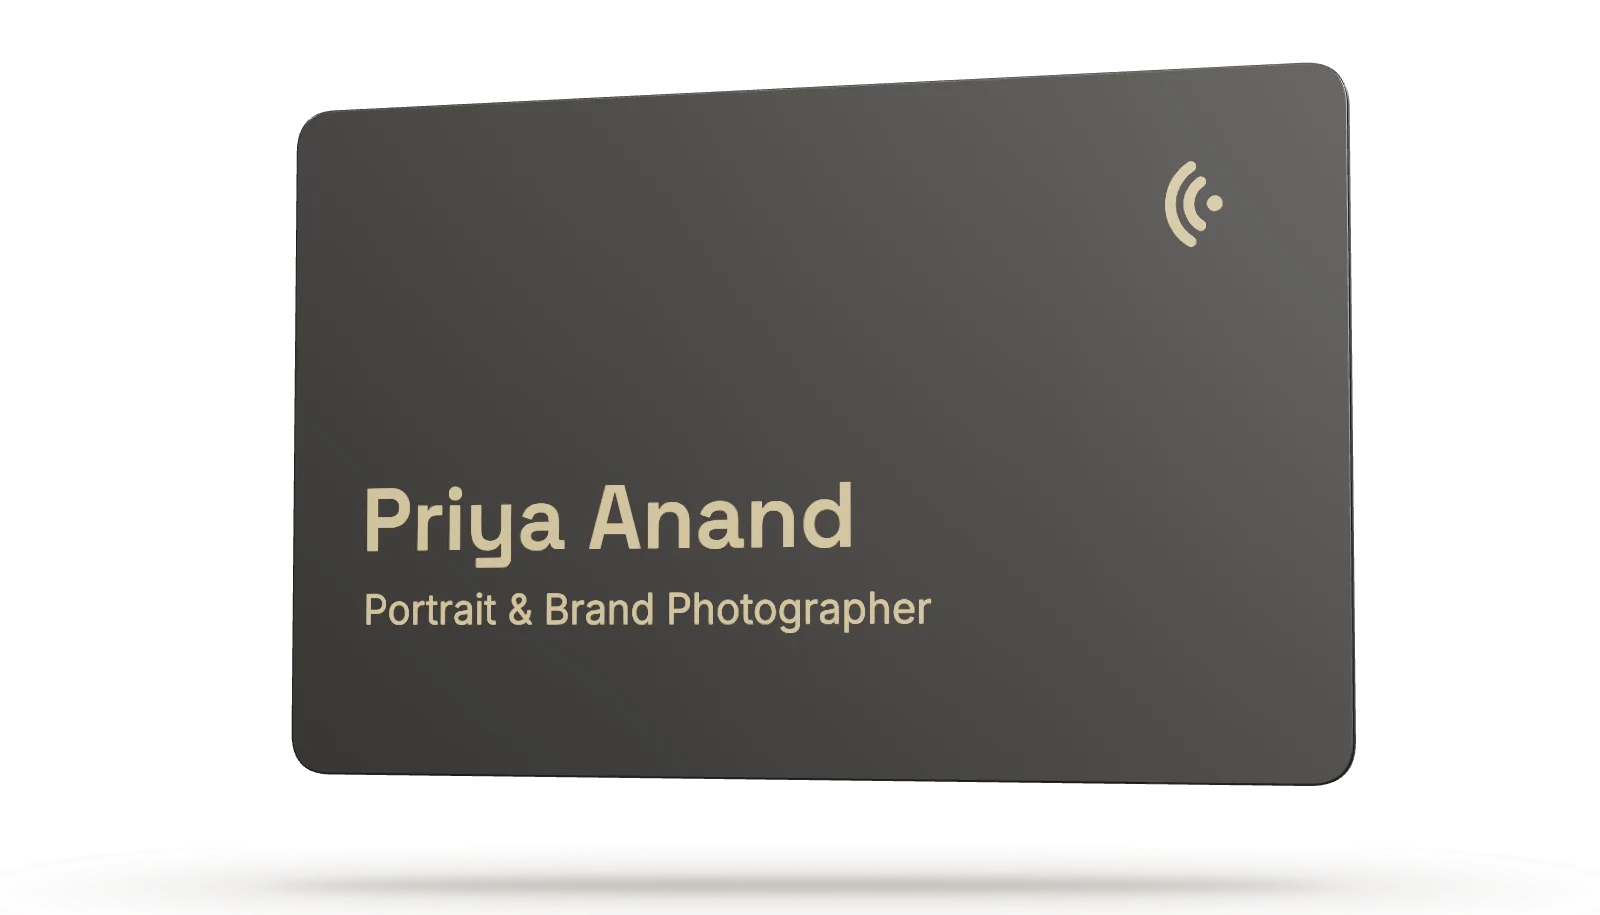
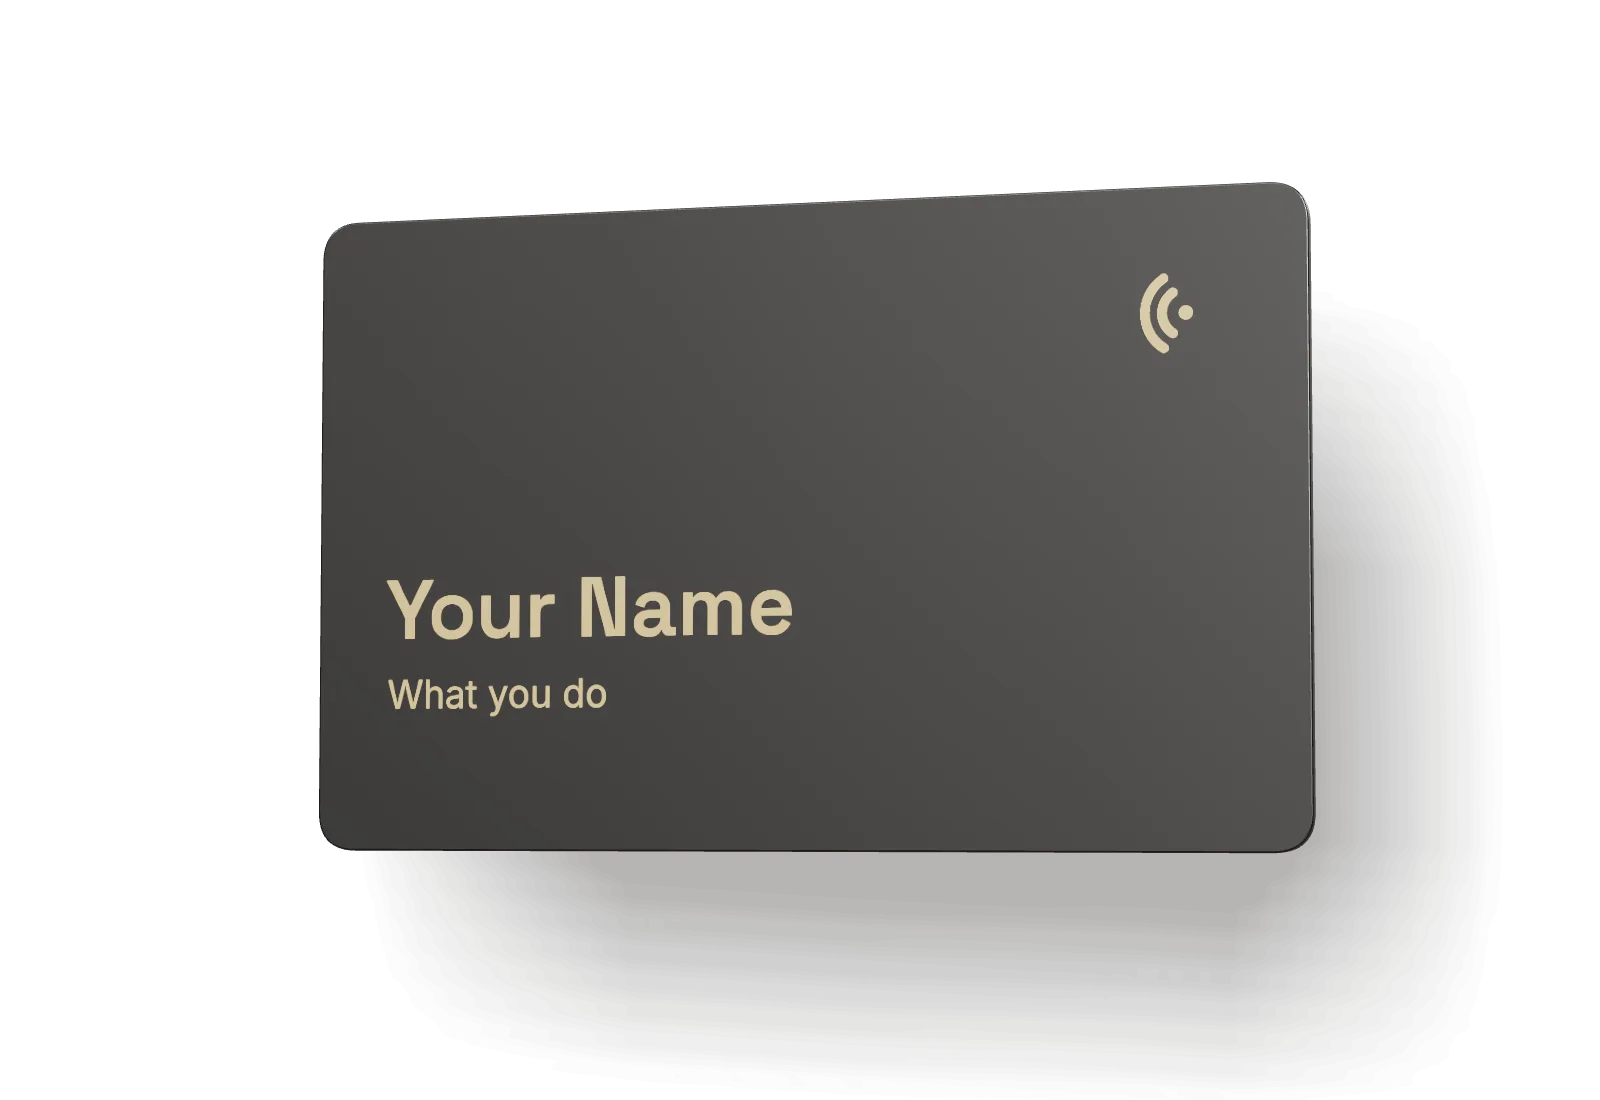
feat(home): "Your Name" on every card, demo profiles labelled as examples
- 3D cards and every still (hero, How it works, pricing, login, phone
  story, share image) read "Your Name / What you do" instead of a
  made-up person; the card QR points to the homepage; Make it yours
  starts from the same placeholder
- Pricing stills are taller so the card's wall shadow isn't cut off
- Demo profiles (DEMO_USERNAMES) show an "Example profile · Get your own
  card" pill; the phone story labels its screen "Example profile" and
  the saved note no longer names anyone

Claude-Session: https://claude.ai/code/session_01RXhqBJTb3XXQtQqq3tabda

Changed region(s): [[0.1562, 0.0612, 0.9062, 1.0]]

diff --git a/components/marketing/PhoneStory.tsx b/components/marketing/PhoneStory.tsx
@@ -173,30 +173,34 @@ export default function PhoneStory() {
       <div className="sticky top-16 h-[calc(100svh-4rem)] md:top-[4.5rem] md:h-[calc(100svh-4.5rem)]">
         <div className="container-page grid h-full grid-rows-[minmax(0,1fr)_auto] gap-2 py-3 md:grid-cols-[1.1fr_1fr] md:grid-rows-1 md:items-center md:gap-10 md:py-4">
           {/* The phone. */}
-          <div className="feather relative h-full min-h-0 md:-ml-[6%]">
-            <Image
-              src="/home/phone-poster.webp"
-              alt=""
-              width={900}
-              height={1000}
-              sizes="(min-width: 768px) 45vw, 90vw"
-              className={`pointer-events-none absolute inset-0 h-full w-full max-w-none object-contain motion-reduce:hidden ${
-                live ? "opacity-0" : "opacity-100"
-              }`}
-            />
-            <Image
-              src="/home/phone-front.webp"
-              alt="Priya Anand's Unitouch profile open on an iPhone"
-              width={900}
-              height={1000}
-              sizes="(min-width: 768px) 45vw, 90vw"
-              className="pointer-events-none absolute inset-0 hidden h-full w-full max-w-none object-contain motion-reduce:block"
-            />
-            <canvas
-              ref={canvasRef}
-              aria-hidden
-              className={`absolute inset-0 h-full w-full ${live ? "opacity-100" : "opacity-0"}`}
-            />
+          <div className="relative h-full min-h-0 md:-ml-[6%]">
+            <div className="feather absolute inset-0">
+              <Image
+                src="/home/phone-poster.webp"
+                alt=""
+                width={900}
+                height={1000}
+                sizes="(min-width: 768px) 45vw, 90vw"
+                className={`pointer-events-none absolute inset-0 h-full w-full max-w-none object-contain motion-reduce:hidden ${
+                  live ? "opacity-0" : "opacity-100"
+                }`}
+              />
+              <Image
+                src="/home/phone-front.webp"
+                alt="An example Unitouch profile open on an iPhone"
+                width={900}
+                height={1000}
+                sizes="(min-width: 768px) 45vw, 90vw"
+                className="pointer-events-none absolute inset-0 hidden h-full w-full max-w-none object-contain motion-reduce:block"
+              />
+              <canvas
+                ref={canvasRef}
+                aria-hidden
+                className={`absolute inset-0 h-full w-full ${live ? "opacity-100" : "opacity-0"}`}
+              />
+            </div>
+            {/* The screen shows the demo profile, not the card owner's. */}
+            <p className="text-text-muted absolute inset-x-0 bottom-0 text-center text-[0.8125rem]">Example profile</p>
           </div>
 
           {/* The words: one step at a time, rising in word by word as you scroll. */}
@@ -232,7 +236,7 @@ export default function PhoneStory() {
               ))}
             </div>
             <Link href="/u/priya" className="link-draw mt-8 hidden font-[500] md:inline-block">
-              Open the demo profile
+              Open the example profile
             </Link>
           </div>
         </div>

diff --git a/components/profile/PersonalProfile.tsx b/components/profile/PersonalProfile.tsx
@@ -5,7 +5,7 @@ import Image from "next/image";
 import Link from "next/link";
 import { Share2, Check, BadgeCheck, Eye, Bookmark, Download, MapPin, ChevronDown } from "lucide-react";
 import type { Profile, EventType } from "@/types";
-import { formatMemberSince } from "@/lib/profile-demo";
+import { DEMO_USERNAMES, formatMemberSince } from "@/lib/profile-demo";
 import { downloadVCard } from "@/lib/vcard";
 import { track } from "@/lib/track";
 import { shareProfile } from "@/lib/share";
@@ -103,6 +103,15 @@ export default function PersonalProfile({
 
   return (
     <main className="bg-bg-base min-h-screen pb-32 lg:pb-0">
+      {/* The demo profiles are fictional: say so, and offer the real thing. */}
+      {!preview && DEMO_USERNAMES.includes(profile.username) && (
+        <Link
+          href="/order"
+          className="bg-bg-ink text-text-on-ink fixed top-3 left-1/2 z-40 -translate-x-1/2 rounded-full px-4 py-2 text-[0.8125rem] font-[500] whitespace-nowrap"
+        >
+          Example profile · Get your own card
+        </Link>
+      )}
       {/* Stacked column on mobile; two-column split (hero | details) on desktop. */}
       <div className="lg:mx-auto lg:flex lg:min-h-screen lg:max-w-6xl">
         {/* Hero — top on mobile, left half (sticky, full height) on desktop. */}

diff --git a/components/marketing/card3d/phoneScene.ts b/components/marketing/card3d/phoneScene.ts
@@ -173,7 +173,7 @@ function toastTexture(): CanvasTexture {
   ctx.fillText("Contact saved", 140, 66);
   ctx.fillStyle = "rgba(255,255,255,0.7)";
   ctx.font = `400 29px ${family}`;
-  ctx.fillText("Priya Anand was added to Contacts", 140, 108);
+  ctx.fillText("Added to your contacts", 140, 108);
   const t = new CanvasTexture(c);
   t.colorSpace = SRGBColorSpace;
   return t;
@@ -310,9 +310,9 @@ export function createPhoneScene(canvas: HTMLCanvasElement, opts: { still?: numb
 
   // ── The card, which taps the back of the phone ──────────────────────────
   const card = buildCard(renderer, {
-    name: "Priya Anand",
-    title: "Portrait & Brand Photographer",
-    url: "https://www.unitouch.in/u/priya",
+    name: "Your Name",
+    title: "What you do",
+    url: "https://www.unitouch.in",
   });
   scene.add(card.group);
   disposables.push(card);

diff --git a/components/marketing/card3d/scene.ts b/components/marketing/card3d/scene.ts
@@ -45,8 +45,8 @@ export function createCardScene(canvas: HTMLCanvasElement, opts: CardSceneOption
     tilt = -0.14,
     fill = 0.72,
     still = false,
-    name = "Priya Anand",
-    title = "Portrait & Brand Photographer",
+    name = "Your Name",
+    title = "What you do",
     finish = "standard",
   } = opts;
 
@@ -64,7 +64,7 @@ export function createCardScene(canvas: HTMLCanvasElement, opts: CardSceneOption
   sway.add(spin);
   scene.add(sway);
 
-  const card = buildCard(renderer, { name, title, finish, url: "https://www.unitouch.in/u/priya" });
+  const card = buildCard(renderer, { name, title, finish, url: "https://www.unitouch.in" });
   spin.add(card.group);
 
   /* The card's shadow, cast onto a wall a little behind it (an invisible

diff --git a/lib/admin-profiles.ts b/lib/admin-profiles.ts
@@ -1,13 +1,14 @@
 import { Redis } from "@upstash/redis";
 import { createServiceRoleClient } from "@/lib/supabase/server";
 import { getReminderCounts } from "@/lib/draft-reminders";
+import { DEMO_USERNAMES } from "@/lib/profile-demo";
 
 /* Admin profile management: the enriched profiles list and deletion.
    Callers are behind requireAdmin()/getAdminUser(). */
 
 /* Demo profiles linked from the marketing site ("See a Live Profile",
    navbar "Demo Profile"). Deleting them would break those links. */
-export const PROTECTED_USERNAMES = ["priya", "rohan"];
+export const PROTECTED_USERNAMES = DEMO_USERNAMES;
 
 export type AdminProfileStatus = "published" | "draft-paid" | "unpaid" | "demo" | "draft";
 

diff --git a/lib/card-images.ts b/lib/card-images.ts
@@ -1,6 +1,6 @@
 /* Card mockup images, keyed by card variant id. Import-free so both the
    marketing pricing section and the client-side checkout can use it.
-   Files live in public/cards/ (1600×915, 7:4 landscape, WebP, transparent
+   Files live in public/cards/ (1600×1100, landscape, WebP, transparent
    background). They are stills of the homepage's 3D card
    (components/marketing/card3d), not photographs; replace them in place
    with real product photos when there are some (HANDOFF.md Section 6). */

diff --git a/components/marketing/Hero.tsx b/components/marketing/Hero.tsx
@@ -70,7 +70,7 @@ export default function Hero() {
           <div className="hero-card feather relative">
             <Card3D
               poster="/cards/hero-card.webp"
-              posterAlt="A matte black Unitouch NFC business card printed with the owner's name, Priya Anand, and her title"
+              posterAlt="A matte black Unitouch NFC business card printed with a name and title"
               posterWidth={1500}
               posterHeight={1200}
               priority

diff --git a/components/marketing/HowItWorks.tsx b/components/marketing/HowItWorks.tsx
@@ -11,7 +11,7 @@ const STEPS = [
   {
     name: "We make it",
     text: "We design your card with you, print it and program its chip. It reaches you in 5 to 7 days.",
-    image: { src: "/cards/card-front.webp", alt: "A Unitouch card printed with its owner's name, Priya Anand, and her title", w: 1200, h: 900 },
+    image: { src: "/cards/card-front.webp", alt: "A Unitouch card printed with its owner's name and title", w: 1200, h: 900 },
     img: "w-[96%]",
   },
   {

diff --git a/app/login/page.tsx b/app/login/page.tsx
@@ -61,7 +61,7 @@ export default function LoginPage() {
           <div className="relative flex flex-1 items-center justify-center px-10">
             <Image
               src="/cards/card-login.webp"
-              alt="A Unitouch card printed with its owner's name, Priya Anand, and her title"
+              alt="A Unitouch card printed with its owner's name and title"
               width={1200}
               height={960}
               priority

diff --git a/lib/profile-demo.ts b/lib/profile-demo.ts
@@ -1,5 +1,9 @@
 import type { Profile } from "@/types";
 
+/* The fictional demo profiles the marketing site links to. Their pages say
+   they're examples (PersonalProfile), and admin refuses to delete them. */
+export const DEMO_USERNAMES = ["priya", "rohan"];
+
 export function formatMemberSince(isoDate: string): string {
   return new Date(isoDate).toLocaleDateString("en-US", {
     month: "long",

diff --git a/components/marketing/Pricing.tsx b/components/marketing/Pricing.tsx
@@ -39,7 +39,7 @@ export default function Pricing() {
                     src={image.src}
                     alt={image.alt}
                     width={1600}
-                    height={915}
+                    height={1100}
                     sizes="(min-width: 768px) 26rem, 90vw"
                     className="mx-auto w-[82%]"
                   />

diff --git a/components/marketing/MakeItYours.tsx b/components/marketing/MakeItYours.tsx
@@ -19,8 +19,8 @@ function toSlug(name: string) {
     .replace(/-+$/, "");
 }
 
-const SAMPLE_NAME = "Priya Anand";
-const SAMPLE_TITLE = "Portrait & Brand Photographer";
+const SAMPLE_NAME = "Your Name";
+const SAMPLE_TITLE = "What you do";
 // Shorter, so the placeholder fits the field at every width.
 const TITLE_PLACEHOLDER = "Photographer";
 
